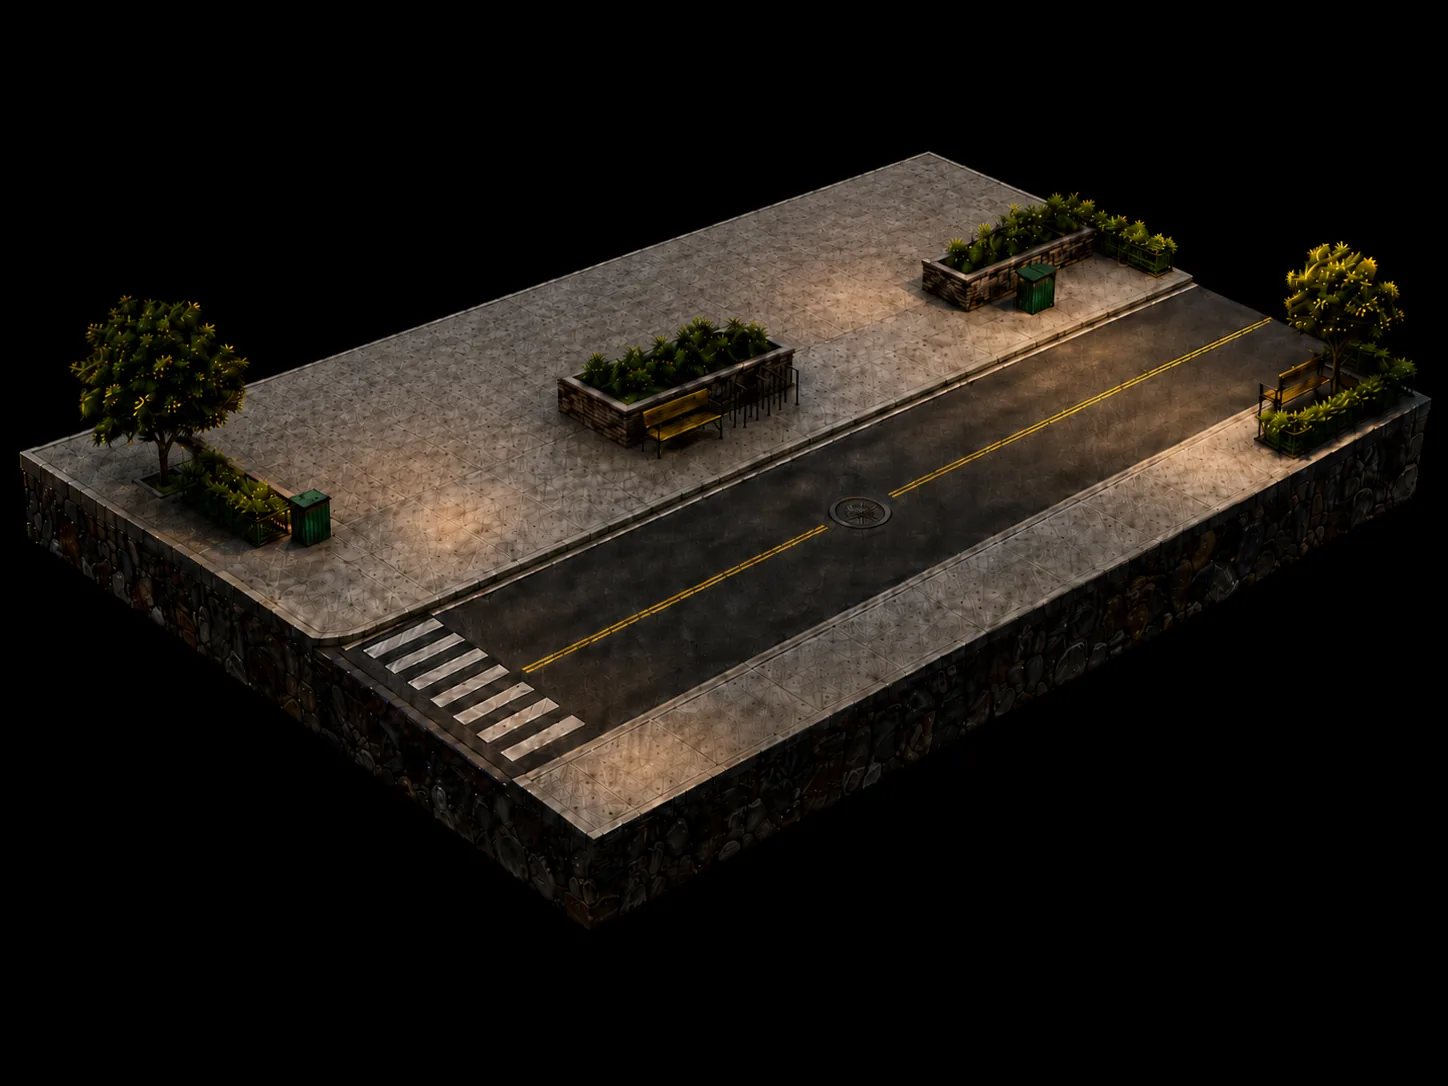
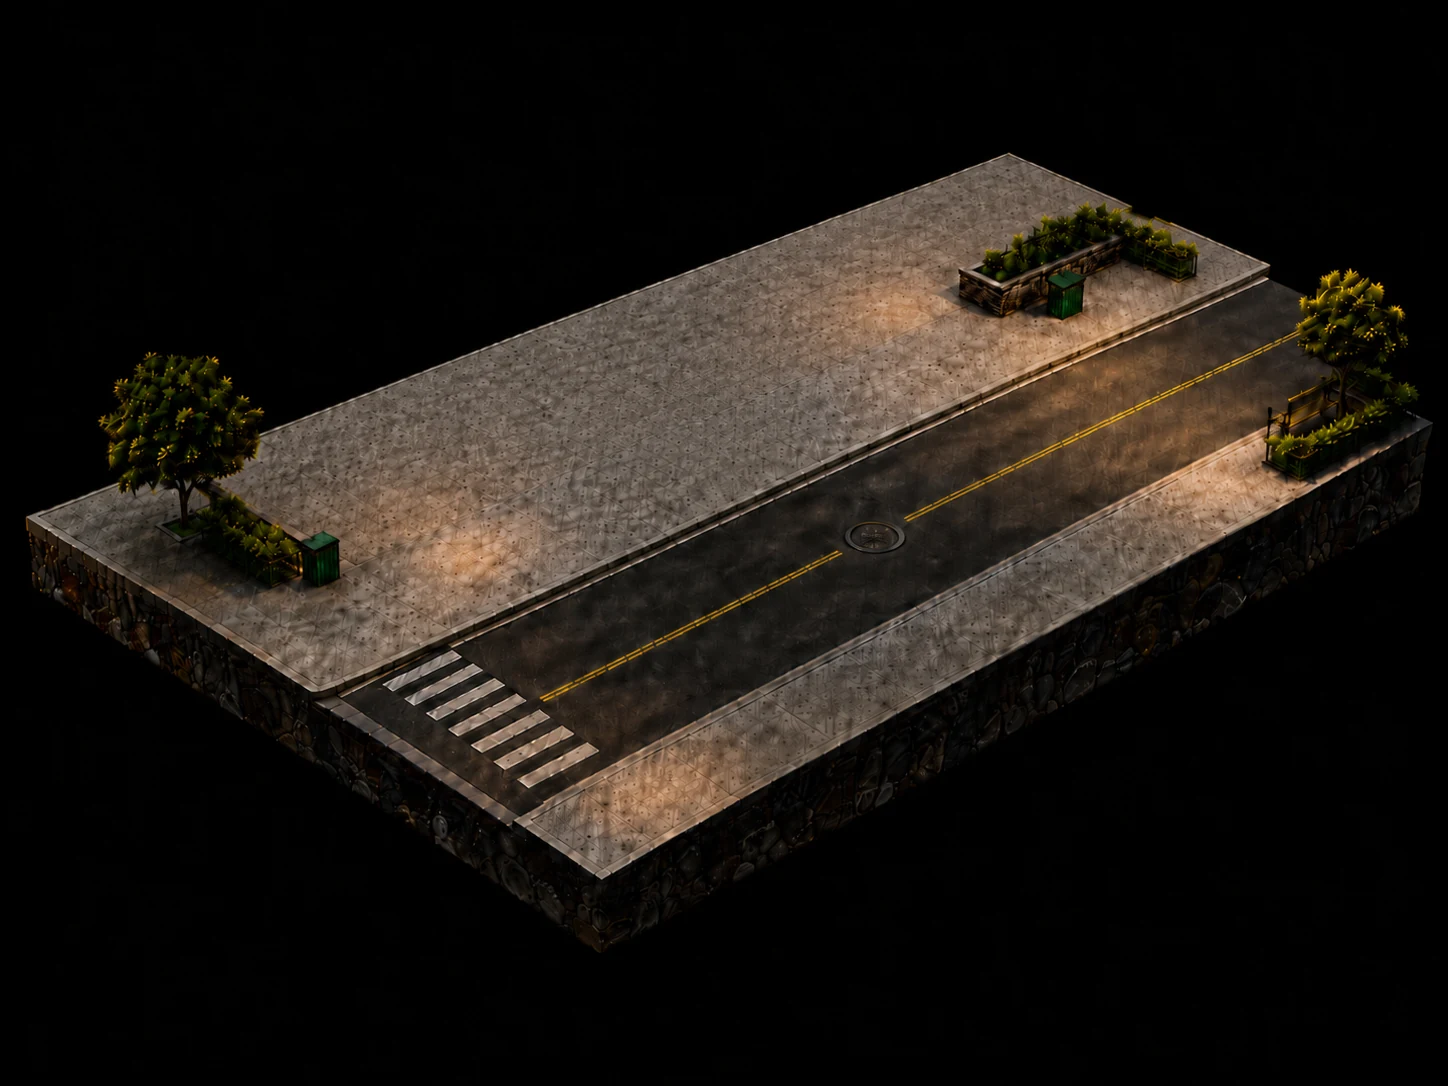
Publish: mobile layout + animation fixes, new community base plate, reseated diorama, contact form fixes

Changed region(s): [[0.0, 0.1215, 0.9945, 0.8508], [0.7459, 0.6077, 0.7769, 0.6381], [0.404, 0.8508, 0.4351, 0.8812]]

diff --git a/contact.html b/contact.html
@@ -247,6 +247,16 @@
   @media (prefers-reduced-motion:reduce){ .geo{animation:none;} .reveal{opacity:1;transform:none;transition:none;} .render img{transition:none;} }
 .bub .bl{display:inline-block;transition:transform .16s cubic-bezier(.2,.7,.2,1);will-change:transform;background:linear-gradient(90deg,#44C7FF,#1E6BFF);-webkit-background-clip:text;background-clip:text;color:transparent;}</style><style id="bubfix">.bub{overflow:visible!important}.bub .bw{overflow:visible!important}.bub .bl{background:none!important;-webkit-background-clip:border-box!important;background-clip:border-box!important;color:#3E8BFF!important;-webkit-text-fill-color:#3E8BFF!important;padding:0!important;margin:0!important;line-height:inherit!important;overflow:visible!important}h1 em,.hero-h1 em,.ph em,h2 em,.sec-h em,.mission-lead em,.px-title em{overflow:visible!important}</style><style id="mobilefix">
 @media (max-width:900px){html{overflow-x:clip;}}
+@media (max-width:900px){
+  .ph-grid{grid-template-columns:minmax(0,1fr)!important;}
+  .formwrap{min-width:0;max-width:100%;}
+  #contactForm,#contactForm *{min-width:0;}
+  #contactForm input,#contactForm textarea,#contactForm select{width:100%;box-sizing:border-box;}
+}
+@media (max-width:374px){
+  .cinfo *{min-width:0;overflow-wrap:anywhere;}
+  #contactForm div[style*="1fr 1fr"]{grid-template-columns:1fr!important;}
+}
 @media (hover:none),(max-width:900px){
   h1 em,h2 em,.q em,.hero-h1 em,.ph em,.sec-h em,.mission-lead em,.mission-motto em,.px-title em{display:inline!important;background:none!important;-webkit-background-clip:border-box!important;background-clip:border-box!important;color:#3E8BFF!important;-webkit-text-fill-color:#3E8BFF!important;padding:0 .05em 0 0!important;margin:0!important;overflow:visible!important;}
 }

diff --git a/platform.html b/platform.html
@@ -367,13 +367,13 @@
   /* community diorama (layered isometric world, scroll-lifts each item) */
   .diorama{position:relative;width:100%;aspect-ratio:1448/1086;background:url(images/world-base.webp) center/cover no-repeat;border-radius:16px;border:1px solid var(--border);overflow:visible;}
   .wlayer{position:absolute;height:auto;filter:drop-shadow(0 14px 18px rgba(0,0,0,.5)) brightness(.9);will-change:transform,filter;}
-  #w-cc{left:28%;bottom:52%;width:30.5%;}
-  #w-mk{left:12.5%;bottom:43%;width:22.8%;}
+  #w-cc{left:33%;bottom:50%;width:30.5%;}
+  #w-mk{left:12%;bottom:41%;width:22.8%;}
   #w-sl{left:0;top:0;right:0;bottom:0;width:auto;pointer-events:none;}
   #w-sl img{position:absolute;height:auto;}
-  #w-sl .sl1{left:38.1%;bottom:26.3%;width:5.6%;}
-  #w-sl .sl2{left:59.4%;bottom:73%;width:5.6%;}
-  #w-sl .sl3{left:83.4%;bottom:64%;width:5.6%;}
+  #w-sl .sl1{left:46%;bottom:18%;width:5.6%;}
+  #w-sl .sl2{left:60%;bottom:63.5%;width:5.6%;}
+  #w-sl .sl3{left:83.5%;bottom:62%;width:5.6%;}
   @media(prefers-reduced-motion:reduce){.wlayer{filter:drop-shadow(0 14px 18px rgba(0,0,0,.5));transform:none!important;}}
 </style><style id="bubfix">.bub{overflow:visible!important}.bub .bw{overflow:visible!important}.bub .bl{background:none!important;-webkit-background-clip:border-box!important;background-clip:border-box!important;color:#3E8BFF!important;-webkit-text-fill-color:#3E8BFF!important;padding:0!important;margin:0!important;line-height:inherit!important;overflow:visible!important}h1 em,.hero-h1 em,.ph em,h2 em,.sec-h em,.mission-lead em,.px-title em{overflow:visible!important}  @media(max-width:700px){.spanel{padding:24px 20px 28px;}}
 </style><style id="mobilefix">

diff --git a/index.html b/index.html
@@ -302,7 +302,15 @@
   .o3a,.o3b{offset-path:path('M15,220 a245,92 0 1 0 490 0 a245,92 0 1 0 -490 0');animation-duration:62s;}
   .o3a{offset-distance:30%;animation-delay:-19s;} .o3b{offset-distance:80%;animation-delay:-50s;}
   @supports not (offset-path: path('M0 0 h1')){ .orbiter{display:none;} }
-  @media(max-width:560px){ .eco3{width:100%;} .eco3-stage{margin:0 calc((100% - 520px)/2);transform:scale(.6);transform-origin:top center;height:272px;} }
+  @media(max-width:900px){.hero-grid>*{min-width:0;}}
+  @media(max-width:560px){
+  .eco3{position:relative;width:100%;max-width:100%;min-width:0;overflow:hidden;height:352px;display:block;}
+  .eco3-stage{position:absolute;left:50%;top:0;width:520px;height:440px;margin:0;transform:translateX(-50%) scale(.8);transform-origin:top center;}
+  }
+  @media(max-width:480px){ .eco3{height:308px;} .eco3-stage{transform:translateX(-50%) scale(.7);} }
+  @media(max-width:420px){ .eco3{height:273px;} .eco3-stage{transform:translateX(-50%) scale(.62);} }
+  @media(max-width:380px){ .eco3{height:242px;} .eco3-stage{transform:translateX(-50%) scale(.55);} }
+  @media(max-width:340px){ .eco3{height:220px;} .eco3-stage{transform:translateX(-50%) scale(.5);} }
   /* velocity text */
   .velo{height:200vh;position:relative;}
   .velo-sticky{position:sticky;top:0;height:100vh;height:100svh;display:flex;align-items:center;overflow:hidden;}
